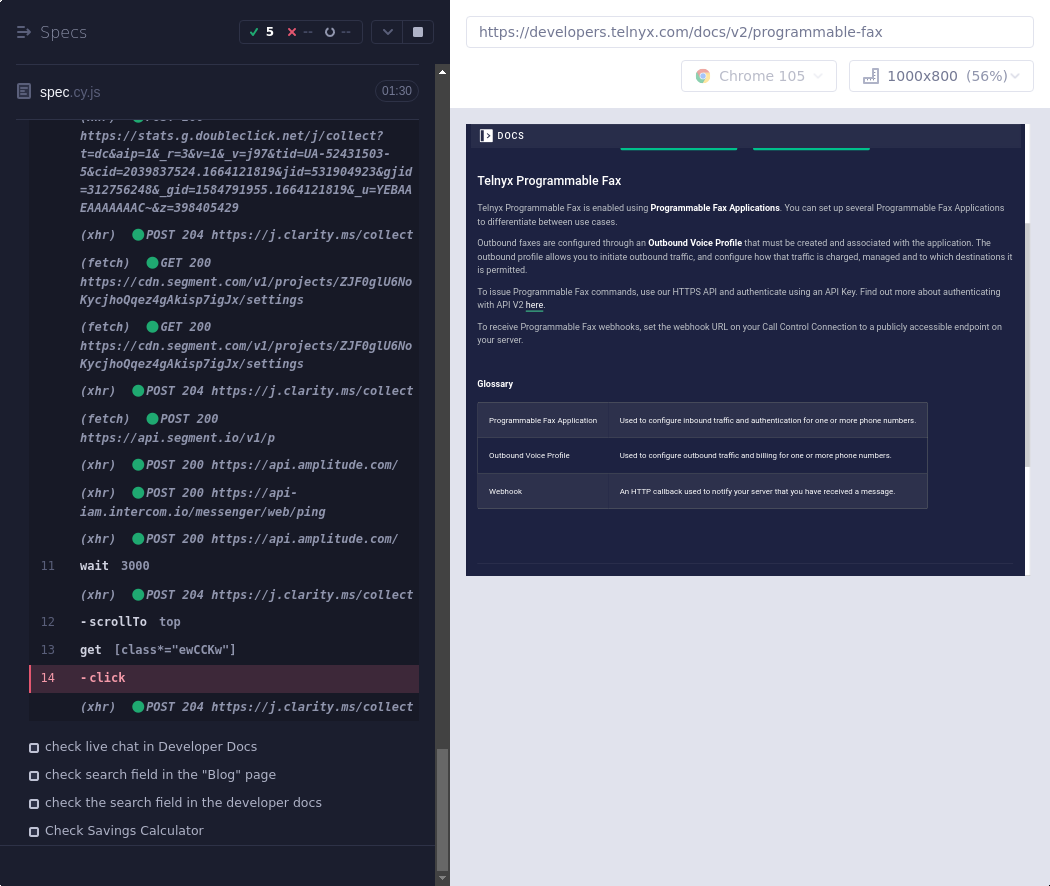
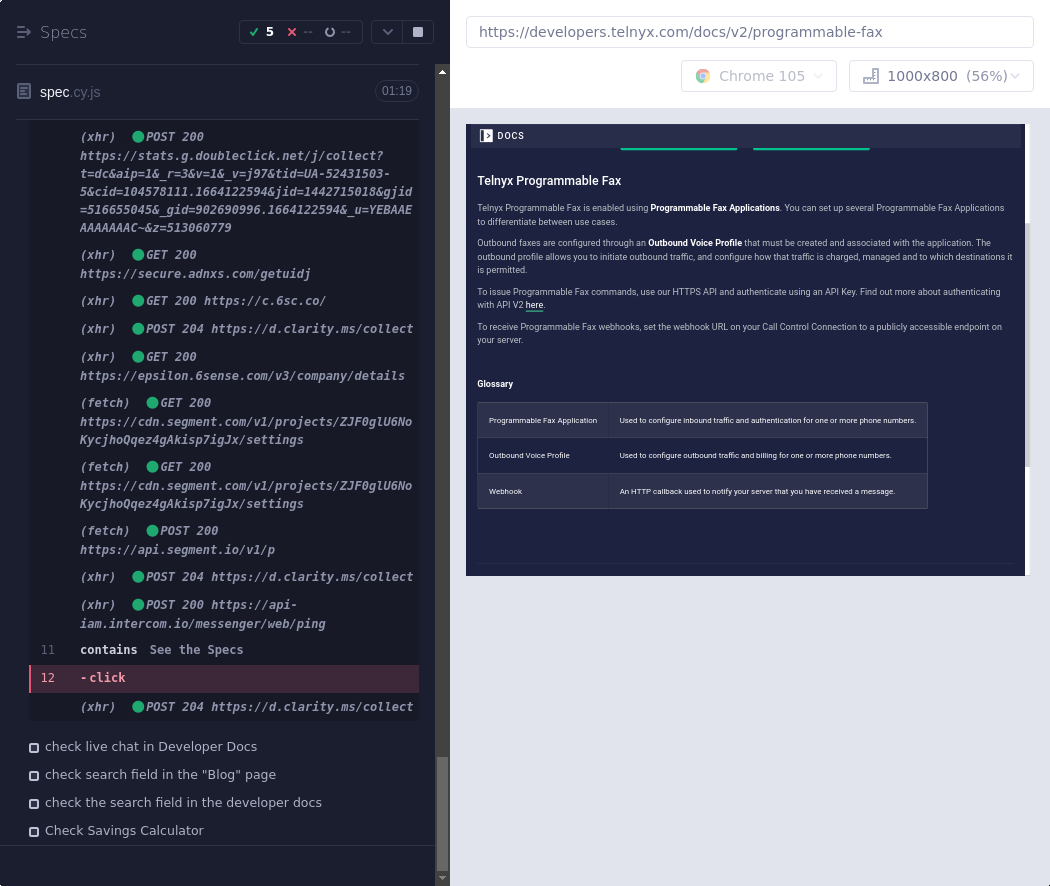
Deploying to gh-pages from @ DenysT07/cypress_autotest@daa4ff738ff83fbc0d0a4ad26e88a9672a4ba21f 🚀

Changed region(s): [[0.061, 0.1219, 0.3962, 0.7619]]

diff --git a/index.html b/index.html
@@ -1,2 +1,2 @@
 <!doctype html>
-<html lang="en"><head><meta charSet="utf-8"/><meta http-equiv="X-UA-Compatible" content="IE=edge"/><meta name="viewport" content="width=device-width, initial-scale=1"/><title>Mochawesome Report</title><link rel="stylesheet" href="assets/app.css"/></head><body data-raw="{&quot;stats&quot;:{&quot;suites&quot;:1,&quot;tests&quot;:10,&quot;passes&quot;:9,&quot;pending&quot;:0,&quot;failures&quot;:1,&quot;start&quot;:&quot;2022-09-25T16:02:19.736Z&quot;,&quot;end&quot;:&quot;2022-09-25T16:04:37.555Z&quot;,&quot;duration&quot;:114014,&quot;testsRegistered&quot;:10,&quot;passPercent&quot;:90,&quot;pendingPercent&quot;:0,&quot;other&quot;:0,&quot;hasOther&quot;:false,&quot;skipped&quot;:0,&quot;hasSkipped&quot;:false},&quot;results&quot;:[{&quot;uuid&quot;:&quot;aa57335e-7115-4b86-ab65-702dc884e9e3&quot;,&quot;title&quot;:&quot;&quot;,&quot;fullFile&quot;:&quot;cypress/e2e/spec/spec.cy.js&quot;,&quot;file&quot;:&quot;cypress/e2e/spec/spec.cy.js&quot;,&quot;beforeHooks&quot;:[],&quot;afterHooks&quot;:[],&quot;tests&quot;:[],&quot;suites&quot;:[{&quot;uuid&quot;:&quot;f3793e66-d598-4ea0-bd9f-08eda60064d5&quot;,&quot;title&quot;:&quot;registration forms tests&quot;,&quot;fullFile&quot;:&quot;cypress/e2e/spec/spec.cy.js&quot;,&quot;file&quot;:&quot;cypress/e2e/spec/spec.cy.js&quot;,&quot;beforeHooks&quot;:[],&quot;afterHooks&quot;:[],&quot;tests&quot;:[{&quot;title&quot;:&quot;Check registration page&quot;,&quot;fullTitle&quot;:&quot;registration forms tests Check registration page&quot;,&quot;timedOut&quot;:null,&quot;duration&quot;:26254,&quot;state&quot;:&quot;passed&quot;,&quot;speed&quot;:&quot;slow&quot;,&quot;pass&quot;:true,&quot;fail&quot;:false,&quot;pending&quot;:false,&quot;context&quot;:null,&quot;code&quot;:&quot;_mainPage.default.singUpClick();\n_registrationPage.default.fillNameField(randomstring);\n_registrationPage.default.fillEmailField(randomstring + &#x27;@gmail.com&#x27;);\n_registrationPage.default.fillpasswordfield(randomstringForPassword);\n_registrationPage.default.clickBothCheckBoxes();\n_registrationPage.default.clickCreataAccounyButt();\ncy.wait(10000);\n_registrationPage.default.clickCreataAccounyButt(); //to pass the recapcha need to press the button two times, work only in chrome\n\ncy.wait(10000);\n_registrationPage.default.sendEmailMessage.should(\&quot;have.text\&quot;, \&quot;reCAPTCHA validation required\&quot;);&quot;,&quot;err&quot;:{},&quot;uuid&quot;:&quot;c5da2faf-80e0-407e-8761-3e585ad706ad&quot;,&quot;parentUUID&quot;:&quot;f3793e66-d598-4ea0-bd9f-08eda60064d5&quot;,&quot;isHook&quot;:false,&quot;skipped&quot;:false},{&quot;title&quot;:&quot;Check the \&quot;Talk to an expert\&quot; page&quot;,&quot;fullTitle&quot;:&quot;registration forms tests Check the \&quot;Talk to an expert\&quot; page&quot;,&quot;timedOut&quot;:null,&quot;duration&quot;:7945,&quot;state&quot;:&quot;passed&quot;,&quot;speed&quot;:&quot;medium&quot;,&quot;pass&quot;:true,&quot;fail&quot;:false,&quot;pending&quot;:false,&quot;context&quot;:null,&quot;code&quot;:&quot;_mainPage.default.rightMenueClick();\n_mainPage.default.talkToAnExpertButt();\n_talkToAnExpertPage.default.reasonDroplistSelect(&#x27;Support&#x27;);\n_talkToAnExpertPage.default.firstNameFill(randomstring);\n_talkToAnExpertPage.default.lastNameFill(randomstring);\n_talkToAnExpertPage.default.buisnesEmailFill(randomstring + &#x27;@gmail.com&#x27;);\n_talkToAnExpertPage.default.phoneNumberFill(phoneNumber);\n_talkToAnExpertPage.default.companyWebSiteFill(&#x27;http://www.&#x27; + randomstring + &#x27;.com/&#x27;);\n_talkToAnExpertPage.default.additionalInformationFill(&#x27;It is just a test&#x27;);\n_talkToAnExpertPage.default.countryCodeSelect(&#x27;+380&#x27;);\n_talkToAnExpertPage.default.checkBoxClick();\n_talkToAnExpertPage.default.submitClick();\n_talkToAnExpertPage.default.messageAfterRegist.should(\&quot;have.text\&quot;, \&quot;Thanks for Reaching Out!\&quot;);&quot;,&quot;err&quot;:{},&quot;uuid&quot;:&quot;6ed02706-3341-42b3-aa25-58fe1e18f01f&quot;,&quot;parentUUID&quot;:&quot;f3793e66-d598-4ea0-bd9f-08eda60064d5&quot;,&quot;isHook&quot;:false,&quot;skipped&quot;:false},{&quot;title&quot;:&quot;check registration for beta testing on the integration page&quot;,&quot;fullTitle&quot;:&quot;registration forms tests check registration for beta testing on the integration page&quot;,&quot;timedOut&quot;:null,&quot;duration&quot;:8937,&quot;state&quot;:&quot;passed&quot;,&quot;speed&quot;:&quot;medium&quot;,&quot;pass&quot;:true,&quot;fail&quot;:false,&quot;pending&quot;:false,&quot;context&quot;:null,&quot;code&quot;:&quot;_mainPage.default.rightMenueClick();\n_mainPage.default.companyButtclick();\n_mainPage.default.integrationButtClick({\n  timeout: 2000\n});\ncy.wait(2000);\ncy.scrollTo(&#x27;bottom&#x27;);\n_integrationPage.default.firstNameFill(randomstring);\n_integrationPage.default.lastNameFill(randomstring);\n_integrationPage.default.buisnesEmailFill(randomstring + &#x27;@gmail.com&#x27;);\n_integrationPage.default.indastryFill(randomstring);\n_integrationPage.default.companyWebSiteFill(&#x27;http://www.&#x27; + randomstring + &#x27;.com/&#x27;);\n_integrationPage.default.useCaseDropListSelect(&#x27;Other&#x27;);\n_integrationPage.default.submitClick();\n_integrationPage.default.messageAfterRegist.should(\&quot;have.text\&quot;, \&quot;Thanks for your interest!\&quot;);&quot;,&quot;err&quot;:{},&quot;uuid&quot;:&quot;665bf479-aa1a-438c-82f2-3ae582bb3713&quot;,&quot;parentUUID&quot;:&quot;f3793e66-d598-4ea0-bd9f-08eda60064d5&quot;,&quot;isHook&quot;:false,&quot;skipped&quot;:false},{&quot;title&quot;:&quot;check registrations for becoming a Telnix Partner on the Partners page &quot;,&quot;fullTitle&quot;:&quot;registration forms tests check registrations for becoming a Telnix Partner on the Partners page &quot;,&quot;timedOut&quot;:null,&quot;duration&quot;:9117,&quot;state&quot;:&quot;passed&quot;,&quot;speed&quot;:&quot;medium&quot;,&quot;pass&quot;:true,&quot;fail&quot;:false,&quot;pending&quot;:false,&quot;context&quot;:null,&quot;code&quot;:&quot;_mainPage.default.rightMenueClick();\n_mainPage.default.companyButtclick();\n_mainPage.default.partnerButtClick();\ncy.wait(2000);\ncy.scrollTo(&#x27;bottom&#x27;);\n_partnerPage.default.firstNameFill(randomstring);\n_partnerPage.default.lastNameFill(randomstring);\n_partnerPage.default.buisnesEmailFill(randomstring + &#x27;@gmail.com&#x27;);\n_partnerPage.default.phoneFill(&#x27;380&#x27; + phoneNumber);\n_partnerPage.default.companyFill(randomstring);\n_partnerPage.default.TellAsFormFill(&#x27;It is just a test&#x27;);\n_partnerPage.default.partnerTypeDropListSelect(&#x27;MSP&#x27;);\n_partnerPage.default.checkBoxLocClick();\n_partnerPage.default.applyNowButtClick();\ncy.url({\n  timeout: 20000\n}).should(&#x27;contains&#x27;, &#x27;https://telnyx.com/company/partnerships?&#x27;); // there is a bug, i decided to check actual URL to pass this test&quot;,&quot;err&quot;:{},&quot;uuid&quot;:&quot;51e6eba3-4685-4a57-9e9b-ea7d6447771e&quot;,&quot;parentUUID&quot;:&quot;f3793e66-d598-4ea0-bd9f-08eda60064d5&quot;,&quot;isHook&quot;:false,&quot;skipped&quot;:false},{&quot;title&quot;:&quot;check registrations for the Waitlist on the storage page &quot;,&quot;fullTitle&quot;:&quot;registration forms tests check registrations for the Waitlist on the storage page &quot;,&quot;timedOut&quot;:null,&quot;duration&quot;:8488,&quot;state&quot;:&quot;passed&quot;,&quot;speed&quot;:&quot;medium&quot;,&quot;pass&quot;:true,&quot;fail&quot;:false,&quot;pending&quot;:false,&quot;context&quot;:null,&quot;code&quot;:&quot;_mainPage.default.rightMenueClick();\n_mainPage.default.productsButtcClick();\n_mainPage.default.storageButtClock();\ncy.wait(3000);\ncy.scrollTo(&#x27;bottom&#x27;);\n_storagePage.default.firstNameFill(randomstring);\n_storagePage.default.lastNameFill(randomstring);\n_storagePage.default.buisnesEmailFill(randomstring + &#x27;@gmail.com&#x27;);\n_storagePage.default.TellAsFormFill(&#x27;It is just a test&#x27;);\n_storagePage.default.checkBoxClick();\n_storagePage.default.applyNowButtClick();\n_storagePage.default.messageAfterRegist.should(\&quot;have.text\&quot;, \&quot;You&#x27;re on the waitlist!\&quot;);&quot;,&quot;err&quot;:{},&quot;uuid&quot;:&quot;12505892-3f5d-49cf-8290-c1c45b8d27ae&quot;,&quot;parentUUID&quot;:&quot;f3793e66-d598-4ea0-bd9f-08eda60064d5&quot;,&quot;isHook&quot;:false,&quot;skipped&quot;:false}],&quot;suites&quot;:[],&quot;passes&quot;:[&quot;c5da2faf-80e0-407e-8761-3e585ad706ad&quot;,&quot;6ed02706-3341-42b3-aa25-58fe1e18f01f&quot;,&quot;665bf479-aa1a-438c-82f2-3ae582bb3713&quot;,&quot;51e6eba3-4685-4a57-9e9b-ea7d6447771e&quot;,&quot;12505892-3f5d-49cf-8290-c1c45b8d27ae&quot;],&quot;failures&quot;:[],&quot;pending&quot;:[],&quot;skipped&quot;:[],&quot;duration&quot;:60741,&quot;root&quot;:false,&quot;rootEmpty&quot;:false,&quot;_timeout&quot;:2000},{&quot;uuid&quot;:&quot;6a49a9a2-1723-4b50-bd7c-6c3b56f30742&quot;,&quot;title&quot;:&quot;Functional tests&quot;,&quot;fullFile&quot;:&quot;cypress/e2e/spec/spec.cy.js&quot;,&quot;file&quot;:&quot;cypress/e2e/spec/spec.cy.js&quot;,&quot;beforeHooks&quot;:[],&quot;afterHooks&quot;:[],&quot;tests&quot;:[{&quot;title&quot;:&quot;check link to the Postman colection&quot;,&quot;fullTitle&quot;:&quot;Functional tests check link to the Postman colection&quot;,&quot;timedOut&quot;:null,&quot;duration&quot;:17815,&quot;state&quot;:&quot;failed&quot;,&quot;speed&quot;:null,&quot;pass&quot;:false,&quot;fail&quot;:true,&quot;pending&quot;:false,&quot;context&quot;:&quot;[{\&quot;title\&quot;:\&quot;Failed screenshot\&quot;,\&quot;value\&quot;:\&quot;screenshots/spec.cy.js/Functional tests -- check link to the Postman colection (failed).png\&quot;}]&quot;,&quot;code&quot;:&quot;_mainPage.default.rightMenueClick();\n_mainPage.default.productsButtcClick();\n_mainPage.default.seeAllProductsButtClick();\n_faxApiPage.default.faxApiButtClick();\n_faxApiPage.default.exploreTheDocButtClick();\ncy.wait(3000);\ncy.scrollTo(&#x27;top&#x27;);\n_faxApiPage.default.seeTheSpecButtclick();\ncy.wait(3000);\n_faxApiPage.default.runInPostmanButtClick();\ncy.url({\n  timeout: 20000\n}).should(&#x27;contains&#x27;, &#x27;postman.com&#x27;);&quot;,&quot;err&quot;:{&quot;message&quot;:&quot;CypressError: Timed out retrying after 4050ms: `cy.click()` failed because this element:\n\n`&lt;a color=\&quot;primary\&quot; class=\&quot;sc-45040057-0 ewCCKw sc-992a1474-0 fkNdTQ mchNoDecorate\&quot; href=\&quot;/docs/api/v2/programmable-fax\&quot;&gt;See the...&lt;/a&gt;`\n\nis being covered by another element:\n\n`&lt;label for=\&quot;telnyx-mobile-sidebar\&quot; class=\&quot;sc-249d42c8-0 erLUQr\&quot;&gt;...&lt;/label&gt;`\n\nFix this problem, or use {force: true} to disable error checking.\n\nhttps://on.cypress.io/element-cannot-be-interacted-with&quot;,&quot;estack&quot;:&quot;CypressError: Timed out retrying after 4050ms: `cy.click()` failed because this element:\n\n`&lt;a color=\&quot;primary\&quot; class=\&quot;sc-45040057-0 ewCCKw sc-992a1474-0 fkNdTQ mchNoDecorate\&quot; href=\&quot;/docs/api/v2/programmable-fax\&quot;&gt;See the...&lt;/a&gt;`\n\nis being covered by another element:\n\n`&lt;label for=\&quot;telnyx-mobile-sidebar\&quot; class=\&quot;sc-249d42c8-0 erLUQr\&quot;&gt;...&lt;/label&gt;`\n\nFix this problem, or use {force: true} to disable error checking.\n\nhttps://on.cypress.io/element-cannot-be-interacted-with\n    at $Cy.ensureDescendents (https://telnyx.com/__cypress/runner/cypress_runner.js:147512:78)\n    at ensureDescendents (https://telnyx.com/__cypress/runner/cypress_runner.js:132962:8)\n    at ensureDescendentsAndScroll (https://telnyx.com/__cypress/runner/cypress_runner.js:132969:14)\n    at ensureElIsNotCovered (https://telnyx.com/__cypress/runner/cypress_runner.js:133101:5)\n    at runAllChecks (https://telnyx.com/__cypress/runner/cypress_runner.js:133291:52)\n    at retryActionability (https://telnyx.com/__cypress/runner/cypress_runner.js:133315:16)\n    at tryCatcher (https://telnyx.com/__cypress/runner/cypress_runner.js:11318:23)\n    at Promise.attempt.Promise.try (https://telnyx.com/__cypress/runner/cypress_runner.js:8592:29)\n    at whenStable (https://telnyx.com/__cypress/runner/cypress_runner.js:152495:65)\n    at &lt;unknown&gt; (https://telnyx.com/__cypress/runner/cypress_runner.js:151949:14)\n    at tryCatcher (https://telnyx.com/__cypress/runner/cypress_runner.js:11318:23)\n    at Promise._settlePromiseFromHandler (https://telnyx.com/__cypress/runner/cypress_runner.js:9253:31)\n    at Promise._settlePromise (https://telnyx.com/__cypress/runner/cypress_runner.js:9310:18)\n    at Promise._settlePromise0 (https://telnyx.com/__cypress/runner/cypress_runner.js:9355:10)\n    at Promise._settlePromises (https://telnyx.com/__cypress/runner/cypress_runner.js:9435:18)\n    at Promise._fulfill (https://telnyx.com/__cypress/runner/cypress_runner.js:9379:18)\n    at &lt;unknown&gt; (https://telnyx.com/__cypress/runner/cypress_runner.js:10993:46)\nFrom Your Spec Code:\n    at faxApiPage.seeTheSpecButtclick (webpack:///./cypress/e2e/pages/faxApiPage.js:14:34)\n    at Context.eval (webpack:///./cypress/e2e/spec/spec.cy.js:123:15)&quot;,&quot;diff&quot;:null},&quot;uuid&quot;:&quot;bb46fd47-f855-405e-ba0f-157cacc52195&quot;,&quot;parentUUID&quot;:&quot;6a49a9a2-1723-4b50-bd7c-6c3b56f30742&quot;,&quot;isHook&quot;:false,&quot;skipped&quot;:false},{&quot;title&quot;:&quot;check live chat in Developer Docs&quot;,&quot;fullTitle&quot;:&quot;Functional tests check live chat in Developer Docs&quot;,&quot;timedOut&quot;:null,&quot;duration&quot;:16987,&quot;state&quot;:&quot;passed&quot;,&quot;speed&quot;:&quot;slow&quot;,&quot;pass&quot;:true,&quot;fail&quot;:false,&quot;pending&quot;:false,&quot;context&quot;:null,&quot;code&quot;:&quot;_mainPage.default.rightMenueClick();\n_mainPage.default.resourcesButtclick();\n_mainPage.default.devDocsButtclick();\ncy.scrollTo(&#x27;bottom&#x27;);\ncy.wait(6000);\n_devDocsPage.default.liveChatButtclick();\ncy.wait(5000);\n_devDocsPage.default.serchFieldLiveChatButtClick();\n_devDocsPage.default.serchFieldLiveChatFill(&#x27;sms&#x27;);\ncy.wait(1000);\n_devDocsPage.default.findEntryAndClick(&#x27;Sending Alphanumeric&#x27;);\n_devDocsPage.default.entryTitle.should(\&quot;have.text\&quot;, \&quot;Sending Alphanumeric SMS\&quot;);&quot;,&quot;err&quot;:{},&quot;uuid&quot;:&quot;e4633505-3cd5-4244-b42c-32b8a8878555&quot;,&quot;parentUUID&quot;:&quot;6a49a9a2-1723-4b50-bd7c-6c3b56f30742&quot;,&quot;isHook&quot;:false,&quot;skipped&quot;:false},{&quot;title&quot;:&quot;check search field in the \&quot;Blog\&quot; page&quot;,&quot;fullTitle&quot;:&quot;Functional tests check search field in the \&quot;Blog\&quot; page&quot;,&quot;timedOut&quot;:null,&quot;duration&quot;:9186,&quot;state&quot;:&quot;passed&quot;,&quot;speed&quot;:&quot;medium&quot;,&quot;pass&quot;:true,&quot;fail&quot;:false,&quot;pending&quot;:false,&quot;context&quot;:null,&quot;code&quot;:&quot;_mainPage.default.rightMenueClick();\n_mainPage.default.resourcesButtclick();\n_mainPage.default.blogeButtClick();\n_blogPage.default.serchFieldFill(&#x27;Programmable fax{enter}&#x27;);\ncy.wait(6000);\ncy.contains(&#x27;Programmable fax - switch from Twilio to Telnyx&#x27;).click();\n_blogPage.default.entruTitle.should(&#x27;have.text&#x27;, &#x27;Programmable fax - switch from Twilio to Telnyx &#x27;);&quot;,&quot;err&quot;:{},&quot;uuid&quot;:&quot;77f51d10-c4b3-4b3a-ad7b-72b9ea6edcf4&quot;,&quot;parentUUID&quot;:&quot;6a49a9a2-1723-4b50-bd7c-6c3b56f30742&quot;,&quot;isHook&quot;:false,&quot;skipped&quot;:false},{&quot;title&quot;:&quot;check the search field in the developer docs&quot;,&quot;fullTitle&quot;:&quot;Functional tests check the search field in the developer docs&quot;,&quot;timedOut&quot;:null,&quot;duration&quot;:4061,&quot;state&quot;:&quot;passed&quot;,&quot;speed&quot;:&quot;fast&quot;,&quot;pass&quot;:true,&quot;fail&quot;:false,&quot;pending&quot;:false,&quot;context&quot;:null,&quot;code&quot;:&quot;_mainPage.default.rightMenueClick();\n_mainPage.default.resourcesButtclick();\n_mainPage.default.devDocsButtclick();\n_devDocsPage.default.lefMenuClick();\n_devDocsPage.default.serchFieldLeftMenuFill(&#x27;api&#x27;);\ncy.contains(&#x27; Services in Europe&#x27;).click({\n  force: true\n});\n_devDocsPage.default.mainEntryTitle.should(&#x27;have.text&#x27;, &#x27;Voice API Services in Europe&#x27;);&quot;,&quot;err&quot;:{},&quot;uuid&quot;:&quot;94314853-e68b-4695-963a-3a1aed6d5a99&quot;,&quot;parentUUID&quot;:&quot;6a49a9a2-1723-4b50-bd7c-6c3b56f30742&quot;,&quot;isHook&quot;:false,&quot;skipped&quot;:false},{&quot;title&quot;:&quot;Check Savings Calculator&quot;,&quot;fullTitle&quot;:&quot;Functional tests Check Savings Calculator&quot;,&quot;timedOut&quot;:null,&quot;duration&quot;:5224,&quot;state&quot;:&quot;passed&quot;,&quot;speed&quot;:&quot;medium&quot;,&quot;pass&quot;:true,&quot;fail&quot;:false,&quot;pending&quot;:false,&quot;context&quot;:null,&quot;code&quot;:&quot;_mainPage.default.rightMenueClick();\n_mainPage.default.resourcesButtclick();\n_mainPage.default.CalculatorButtClick();\ncy.wait(2000);\n_calculatorPage.default.messagingApiButtClick();\n_calculatorPage.default.voiceApiButtClick();\n_calculatorPage.default.continueButtClick();\n_calculatorPage.default.localNumberFieldFill(&#x27;{selectall}321&#x27;);\n_calculatorPage.default.tollFreeNumberFieldClick(&#x27;{selectall}123&#x27;);\n_calculatorPage.default.continueButtClick();\n_calculatorPage.default.totalSavingResult.should(&#x27;have.text&#x27;, &#x27;$12,940/ year&#x27;);&quot;,&quot;err&quot;:{},&quot;uuid&quot;:&quot;ee8beebd-192d-4a6c-ab0e-3ce4c3f96a78&quot;,&quot;parentUUID&quot;:&quot;6a49a9a2-1723-4b50-bd7c-6c3b56f30742&quot;,&quot;isHook&quot;:false,&quot;skipped&quot;:false}],&quot;suites&quot;:[],&quot;passes&quot;:[&quot;e4633505-3cd5-4244-b42c-32b8a8878555&quot;,&quot;77f51d10-c4b3-4b3a-ad7b-72b9ea6edcf4&quot;,&quot;94314853-e68b-4695-963a-3a1aed6d5a99&quot;,&quot;ee8beebd-192d-4a6c-ab0e-3ce4c3f96a78&quot;],&quot;failures&quot;:[&quot;bb46fd47-f855-405e-ba0f-157cacc52195&quot;],&quot;pending&quot;:[],&quot;skipped&quot;:[],&quot;duration&quot;:53273,&quot;root&quot;:false,&quot;rootEmpty&quot;:false,&quot;_timeout&quot;:2000}],&quot;passes&quot;:[],&quot;failures&quot;:[],&quot;pending&quot;:[],&quot;skipped&quot;:[],&quot;duration&quot;:0,&quot;root&quot;:true,&quot;rootEmpty&quot;:true,&quot;_timeout&quot;:2000}],&quot;meta&quot;:{&quot;mocha&quot;:{&quot;version&quot;:&quot;7.0.1&quot;},&quot;mochawesome&quot;:{&quot;options&quot;:{&quot;quiet&quot;:false,&quot;reportFilename&quot;:&quot;mochawesome&quot;,&quot;saveHtml&quot;:false,&quot;saveJson&quot;:true,&quot;consoleReporter&quot;:&quot;spec&quot;,&quot;useInlineDiffs&quot;:false,&quot;code&quot;:true},&quot;version&quot;:&quot;7.1.3&quot;},&quot;marge&quot;:{&quot;options&quot;:{&quot;overwrite&quot;:false,&quot;html&quot;:false,&quot;json&quot;:true,&quot;reportDir&quot;:&quot;cypress/reports/html/.jsons&quot;},&quot;version&quot;:&quot;6.2.0&quot;}}}" data-config="{&quot;reportFilename&quot;:&quot;index.html&quot;,&quot;reportDir&quot;:&quot;/home/runner/work/cypress_autotest/cypress_autotest/cypress/reports/html&quot;,&quot;reportTitle&quot;:&quot;cypress_autotest&quot;,&quot;reportPageTitle&quot;:&quot;Mochawesome Report&quot;,&quot;inline&quot;:false,&quot;inlineAssets&quot;:false,&quot;cdn&quot;:false,&quot;charts&quot;:false,&quot;enableCharts&quot;:false,&quot;code&quot;:true,&quot;enableCode&quot;:true,&quot;autoOpen&quot;:false,&quot;overwrite&quot;:true,&quot;timestamp&quot;:false,&quot;ts&quot;:false,&quot;showPassed&quot;:true,&quot;showFailed&quot;:true,&quot;showPending&quot;:true,&quot;showSkipped&quot;:false,&quot;showHooks&quot;:&quot;failed&quot;,&quot;saveJson&quot;:false,&quot;saveHtml&quot;:true,&quot;dev&quot;:false,&quot;assetsDir&quot;:&quot;/home/runner/work/cypress_autotest/cypress_autotest/cypress/reports/html/assets&quot;,&quot;htmlFile&quot;:&quot;/home/runner/work/cypress_autotest/cypress_autotest/cypress/reports/html/index.html&quot;}"><div id="report"></div><script src="assets/app.js"></script></body></html>
+<html lang="en"><head><meta charSet="utf-8"/><meta http-equiv="X-UA-Compatible" content="IE=edge"/><meta name="viewport" content="width=device-width, initial-scale=1"/><title>Mochawesome Report</title><link rel="stylesheet" href="assets/app.css"/></head><body data-raw="{&quot;stats&quot;:{&quot;suites&quot;:1,&quot;tests&quot;:10,&quot;passes&quot;:9,&quot;pending&quot;:0,&quot;failures&quot;:1,&quot;start&quot;:&quot;2022-09-25T16:15:21.773Z&quot;,&quot;end&quot;:&quot;2022-09-25T16:17:22.435Z&quot;,&quot;duration&quot;:101216,&quot;testsRegistered&quot;:10,&quot;passPercent&quot;:90,&quot;pendingPercent&quot;:0,&quot;other&quot;:0,&quot;hasOther&quot;:false,&quot;skipped&quot;:0,&quot;hasSkipped&quot;:false},&quot;results&quot;:[{&quot;uuid&quot;:&quot;cb2b54ff-c100-4602-ad3f-a338654b0f2f&quot;,&quot;title&quot;:&quot;&quot;,&quot;fullFile&quot;:&quot;cypress/e2e/spec/spec.cy.js&quot;,&quot;file&quot;:&quot;cypress/e2e/spec/spec.cy.js&quot;,&quot;beforeHooks&quot;:[],&quot;afterHooks&quot;:[],&quot;tests&quot;:[],&quot;suites&quot;:[{&quot;uuid&quot;:&quot;aebd895c-c76b-4d4d-a3d4-ca886b71327f&quot;,&quot;title&quot;:&quot;registration forms tests&quot;,&quot;fullFile&quot;:&quot;cypress/e2e/spec/spec.cy.js&quot;,&quot;file&quot;:&quot;cypress/e2e/spec/spec.cy.js&quot;,&quot;beforeHooks&quot;:[],&quot;afterHooks&quot;:[],&quot;tests&quot;:[{&quot;title&quot;:&quot;Check registration page&quot;,&quot;fullTitle&quot;:&quot;registration forms tests Check registration page&quot;,&quot;timedOut&quot;:null,&quot;duration&quot;:25544,&quot;state&quot;:&quot;passed&quot;,&quot;speed&quot;:&quot;slow&quot;,&quot;pass&quot;:true,&quot;fail&quot;:false,&quot;pending&quot;:false,&quot;context&quot;:null,&quot;code&quot;:&quot;_mainPage.default.singUpClick();\n_registrationPage.default.fillNameField(randomstring);\n_registrationPage.default.fillEmailField(randomstring + &#x27;@gmail.com&#x27;);\n_registrationPage.default.fillpasswordfield(randomstringForPassword);\n_registrationPage.default.clickBothCheckBoxes();\n_registrationPage.default.clickCreataAccounyButt();\ncy.wait(10000);\n_registrationPage.default.clickCreataAccounyButt(); //to pass the recapcha need to press the button two times, work only in chrome\n\ncy.wait(10000);\n_registrationPage.default.sendEmailMessage.should(\&quot;have.text\&quot;, \&quot;reCAPTCHA validation required\&quot;);&quot;,&quot;err&quot;:{},&quot;uuid&quot;:&quot;1fa5d4c2-a0ad-4ba1-b900-a4c4d869ef0a&quot;,&quot;parentUUID&quot;:&quot;aebd895c-c76b-4d4d-a3d4-ca886b71327f&quot;,&quot;isHook&quot;:false,&quot;skipped&quot;:false},{&quot;title&quot;:&quot;Check the \&quot;Talk to an expert\&quot; page&quot;,&quot;fullTitle&quot;:&quot;registration forms tests Check the \&quot;Talk to an expert\&quot; page&quot;,&quot;timedOut&quot;:null,&quot;duration&quot;:6416,&quot;state&quot;:&quot;passed&quot;,&quot;speed&quot;:&quot;medium&quot;,&quot;pass&quot;:true,&quot;fail&quot;:false,&quot;pending&quot;:false,&quot;context&quot;:null,&quot;code&quot;:&quot;_mainPage.default.rightMenueClick();\n_mainPage.default.talkToAnExpertButt();\n_talkToAnExpertPage.default.reasonDroplistSelect(&#x27;Support&#x27;);\n_talkToAnExpertPage.default.firstNameFill(randomstring);\n_talkToAnExpertPage.default.lastNameFill(randomstring);\n_talkToAnExpertPage.default.buisnesEmailFill(randomstring + &#x27;@gmail.com&#x27;);\n_talkToAnExpertPage.default.phoneNumberFill(phoneNumber);\n_talkToAnExpertPage.default.companyWebSiteFill(&#x27;http://www.&#x27; + randomstring + &#x27;.com/&#x27;);\n_talkToAnExpertPage.default.additionalInformationFill(&#x27;It is just a test&#x27;);\n_talkToAnExpertPage.default.countryCodeSelect(&#x27;+380&#x27;);\n_talkToAnExpertPage.default.checkBoxClick();\n_talkToAnExpertPage.default.submitClick();\n_talkToAnExpertPage.default.messageAfterRegist.should(\&quot;have.text\&quot;, \&quot;Thanks for Reaching Out!\&quot;);&quot;,&quot;err&quot;:{},&quot;uuid&quot;:&quot;c1c32e92-979e-4799-8b9f-8678cbb5d030&quot;,&quot;parentUUID&quot;:&quot;aebd895c-c76b-4d4d-a3d4-ca886b71327f&quot;,&quot;isHook&quot;:false,&quot;skipped&quot;:false},{&quot;title&quot;:&quot;check registration for beta testing on the integration page&quot;,&quot;fullTitle&quot;:&quot;registration forms tests check registration for beta testing on the integration page&quot;,&quot;timedOut&quot;:null,&quot;duration&quot;:9960,&quot;state&quot;:&quot;passed&quot;,&quot;speed&quot;:&quot;medium&quot;,&quot;pass&quot;:true,&quot;fail&quot;:false,&quot;pending&quot;:false,&quot;context&quot;:null,&quot;code&quot;:&quot;_mainPage.default.rightMenueClick();\n_mainPage.default.companyButtclick();\n_mainPage.default.integrationButtClick({\n  timeout: 2000\n});\ncy.wait(2000);\ncy.scrollTo(&#x27;bottom&#x27;);\n_integrationPage.default.firstNameFill(randomstring);\n_integrationPage.default.lastNameFill(randomstring);\n_integrationPage.default.buisnesEmailFill(randomstring + &#x27;@gmail.com&#x27;);\n_integrationPage.default.indastryFill(randomstring);\n_integrationPage.default.companyWebSiteFill(&#x27;http://www.&#x27; + randomstring + &#x27;.com/&#x27;);\n_integrationPage.default.useCaseDropListSelect(&#x27;Other&#x27;);\n_integrationPage.default.submitClick();\n_integrationPage.default.messageAfterRegist.should(\&quot;have.text\&quot;, \&quot;Thanks for your interest!\&quot;);&quot;,&quot;err&quot;:{},&quot;uuid&quot;:&quot;c051984f-96ce-4849-9562-8e67229e4b01&quot;,&quot;parentUUID&quot;:&quot;aebd895c-c76b-4d4d-a3d4-ca886b71327f&quot;,&quot;isHook&quot;:false,&quot;skipped&quot;:false},{&quot;title&quot;:&quot;check registrations for becoming a Telnix Partner on the Partners page &quot;,&quot;fullTitle&quot;:&quot;registration forms tests check registrations for becoming a Telnix Partner on the Partners page &quot;,&quot;timedOut&quot;:null,&quot;duration&quot;:7323,&quot;state&quot;:&quot;passed&quot;,&quot;speed&quot;:&quot;medium&quot;,&quot;pass&quot;:true,&quot;fail&quot;:false,&quot;pending&quot;:false,&quot;context&quot;:null,&quot;code&quot;:&quot;_mainPage.default.rightMenueClick();\n_mainPage.default.companyButtclick();\n_mainPage.default.partnerButtClick();\ncy.wait(2000);\ncy.scrollTo(&#x27;bottom&#x27;);\n_partnerPage.default.firstNameFill(randomstring);\n_partnerPage.default.lastNameFill(randomstring);\n_partnerPage.default.buisnesEmailFill(randomstring + &#x27;@gmail.com&#x27;);\n_partnerPage.default.phoneFill(&#x27;380&#x27; + phoneNumber);\n_partnerPage.default.companyFill(randomstring);\n_partnerPage.default.TellAsFormFill(&#x27;It is just a test&#x27;);\n_partnerPage.default.partnerTypeDropListSelect(&#x27;MSP&#x27;);\n_partnerPage.default.checkBoxLocClick();\n_partnerPage.default.applyNowButtClick();\ncy.url({\n  timeout: 20000\n}).should(&#x27;contains&#x27;, &#x27;https://telnyx.com/company/partnerships?&#x27;); // there is a bug, i decided to check actual URL to pass this test&quot;,&quot;err&quot;:{},&quot;uuid&quot;:&quot;57b941c4-8b90-4712-ab3b-76b0a9b86577&quot;,&quot;parentUUID&quot;:&quot;aebd895c-c76b-4d4d-a3d4-ca886b71327f&quot;,&quot;isHook&quot;:false,&quot;skipped&quot;:false},{&quot;title&quot;:&quot;check registrations for the Waitlist on the storage page &quot;,&quot;fullTitle&quot;:&quot;registration forms tests check registrations for the Waitlist on the storage page &quot;,&quot;timedOut&quot;:null,&quot;duration&quot;:7137,&quot;state&quot;:&quot;passed&quot;,&quot;speed&quot;:&quot;medium&quot;,&quot;pass&quot;:true,&quot;fail&quot;:false,&quot;pending&quot;:false,&quot;context&quot;:null,&quot;code&quot;:&quot;_mainPage.default.rightMenueClick();\n_mainPage.default.productsButtcClick();\n_mainPage.default.storageButtClock();\ncy.wait(3000);\ncy.scrollTo(&#x27;bottom&#x27;);\n_storagePage.default.firstNameFill(randomstring);\n_storagePage.default.lastNameFill(randomstring);\n_storagePage.default.buisnesEmailFill(randomstring + &#x27;@gmail.com&#x27;);\n_storagePage.default.TellAsFormFill(&#x27;It is just a test&#x27;);\n_storagePage.default.checkBoxClick();\n_storagePage.default.applyNowButtClick();\n_storagePage.default.messageAfterRegist.should(\&quot;have.text\&quot;, \&quot;You&#x27;re on the waitlist!\&quot;);&quot;,&quot;err&quot;:{},&quot;uuid&quot;:&quot;adeab519-1327-4739-95cf-b6fbf4ab3408&quot;,&quot;parentUUID&quot;:&quot;aebd895c-c76b-4d4d-a3d4-ca886b71327f&quot;,&quot;isHook&quot;:false,&quot;skipped&quot;:false}],&quot;suites&quot;:[],&quot;passes&quot;:[&quot;1fa5d4c2-a0ad-4ba1-b900-a4c4d869ef0a&quot;,&quot;c1c32e92-979e-4799-8b9f-8678cbb5d030&quot;,&quot;c051984f-96ce-4849-9562-8e67229e4b01&quot;,&quot;57b941c4-8b90-4712-ab3b-76b0a9b86577&quot;,&quot;adeab519-1327-4739-95cf-b6fbf4ab3408&quot;],&quot;failures&quot;:[],&quot;pending&quot;:[],&quot;skipped&quot;:[],&quot;duration&quot;:56380,&quot;root&quot;:false,&quot;rootEmpty&quot;:false,&quot;_timeout&quot;:2000},{&quot;uuid&quot;:&quot;2e5b74e2-49e8-46ca-8dcd-a2303e1e4950&quot;,&quot;title&quot;:&quot;Functional tests&quot;,&quot;fullFile&quot;:&quot;cypress/e2e/spec/spec.cy.js&quot;,&quot;file&quot;:&quot;cypress/e2e/spec/spec.cy.js&quot;,&quot;beforeHooks&quot;:[],&quot;afterHooks&quot;:[],&quot;tests&quot;:[{&quot;title&quot;:&quot;check link to the Postman colection&quot;,&quot;fullTitle&quot;:&quot;Functional tests check link to the Postman colection&quot;,&quot;timedOut&quot;:null,&quot;duration&quot;:12054,&quot;state&quot;:&quot;failed&quot;,&quot;speed&quot;:null,&quot;pass&quot;:false,&quot;fail&quot;:true,&quot;pending&quot;:false,&quot;context&quot;:&quot;[{\&quot;title\&quot;:\&quot;Failed screenshot\&quot;,\&quot;value\&quot;:\&quot;screenshots/spec.cy.js/Functional tests -- check link to the Postman colection (failed).png\&quot;}]&quot;,&quot;code&quot;:&quot;_mainPage.default.rightMenueClick();\n_mainPage.default.productsButtcClick();\n_mainPage.default.seeAllProductsButtClick();\n_faxApiPage.default.faxApiButtClick();\n_faxApiPage.default.exploreTheDocButtClick();\ncy.contains(&#x27;See the Specs&#x27;).click(); // cy.wait(3000)\n// cy.scrollTo(&#x27;top&#x27;)\n// faxApiPage.seeTheSpecButtclick()\n// cy.wait(3000)\n_faxApiPage.default.runInPostmanButtClick();\ncy.url({\n  timeout: 20000\n}).should(&#x27;contains&#x27;, &#x27;postman.com&#x27;);&quot;,&quot;err&quot;:{&quot;message&quot;:&quot;CypressError: Timed out retrying after 4050ms: `cy.click()` failed because this element:\n\n`&lt;a color=\&quot;primary\&quot; class=\&quot;sc-45040057-0 ewCCKw sc-992a1474-0 fkNdTQ mchNoDecorate\&quot; href=\&quot;/docs/api/v2/programmable-fax\&quot;&gt;See the...&lt;/a&gt;`\n\nis being covered by another element:\n\n`&lt;label for=\&quot;telnyx-mobile-sidebar\&quot; class=\&quot;sc-249d42c8-0 erLUQr\&quot;&gt;...&lt;/label&gt;`\n\nFix this problem, or use {force: true} to disable error checking.\n\nhttps://on.cypress.io/element-cannot-be-interacted-with&quot;,&quot;estack&quot;:&quot;CypressError: Timed out retrying after 4050ms: `cy.click()` failed because this element:\n\n`&lt;a color=\&quot;primary\&quot; class=\&quot;sc-45040057-0 ewCCKw sc-992a1474-0 fkNdTQ mchNoDecorate\&quot; href=\&quot;/docs/api/v2/programmable-fax\&quot;&gt;See the...&lt;/a&gt;`\n\nis being covered by another element:\n\n`&lt;label for=\&quot;telnyx-mobile-sidebar\&quot; class=\&quot;sc-249d42c8-0 erLUQr\&quot;&gt;...&lt;/label&gt;`\n\nFix this problem, or use {force: true} to disable error checking.\n\nhttps://on.cypress.io/element-cannot-be-interacted-with\n    at $Cy.ensureDescendents (https://telnyx.com/__cypress/runner/cypress_runner.js:147512:78)\n    at ensureDescendents (https://telnyx.com/__cypress/runner/cypress_runner.js:132962:8)\n    at ensureDescendentsAndScroll (https://telnyx.com/__cypress/runner/cypress_runner.js:132969:14)\n    at ensureElIsNotCovered (https://telnyx.com/__cypress/runner/cypress_runner.js:133101:5)\n    at runAllChecks (https://telnyx.com/__cypress/runner/cypress_runner.js:133291:52)\n    at retryActionability (https://telnyx.com/__cypress/runner/cypress_runner.js:133315:16)\n    at tryCatcher (https://telnyx.com/__cypress/runner/cypress_runner.js:11318:23)\n    at Promise.attempt.Promise.try (https://telnyx.com/__cypress/runner/cypress_runner.js:8592:29)\n    at whenStable (https://telnyx.com/__cypress/runner/cypress_runner.js:152495:65)\n    at &lt;unknown&gt; (https://telnyx.com/__cypress/runner/cypress_runner.js:151949:14)\n    at tryCatcher (https://telnyx.com/__cypress/runner/cypress_runner.js:11318:23)\n    at Promise._settlePromiseFromHandler (https://telnyx.com/__cypress/runner/cypress_runner.js:9253:31)\n    at Promise._settlePromise (https://telnyx.com/__cypress/runner/cypress_runner.js:9310:18)\n    at Promise._settlePromise0 (https://telnyx.com/__cypress/runner/cypress_runner.js:9355:10)\n    at Promise._settlePromises (https://telnyx.com/__cypress/runner/cypress_runner.js:9435:18)\n    at Promise._fulfill (https://telnyx.com/__cypress/runner/cypress_runner.js:9379:18)\n    at &lt;unknown&gt; (https://telnyx.com/__cypress/runner/cypress_runner.js:10993:46)\nFrom Your Spec Code:\n    at Context.eval (webpack:///./cypress/e2e/spec/spec.cy.js:121:33)&quot;,&quot;diff&quot;:null},&quot;uuid&quot;:&quot;7b7e11a0-0a3d-4e40-816f-fd094e6e5026&quot;,&quot;parentUUID&quot;:&quot;2e5b74e2-49e8-46ca-8dcd-a2303e1e4950&quot;,&quot;isHook&quot;:false,&quot;skipped&quot;:false},{&quot;title&quot;:&quot;check live chat in Developer Docs&quot;,&quot;fullTitle&quot;:&quot;Functional tests check live chat in Developer Docs&quot;,&quot;timedOut&quot;:null,&quot;duration&quot;:15022,&quot;state&quot;:&quot;passed&quot;,&quot;speed&quot;:&quot;slow&quot;,&quot;pass&quot;:true,&quot;fail&quot;:false,&quot;pending&quot;:false,&quot;context&quot;:null,&quot;code&quot;:&quot;_mainPage.default.rightMenueClick();\n_mainPage.default.resourcesButtclick();\n_mainPage.default.devDocsButtclick();\ncy.scrollTo(&#x27;bottom&#x27;);\ncy.wait(6000);\n_devDocsPage.default.liveChatButtclick();\ncy.wait(5000);\n_devDocsPage.default.serchFieldLiveChatButtClick();\n_devDocsPage.default.serchFieldLiveChatFill(&#x27;sms&#x27;);\ncy.wait(1000);\n_devDocsPage.default.findEntryAndClick(&#x27;Sending Alphanumeric&#x27;);\n_devDocsPage.default.entryTitle.should(\&quot;have.text\&quot;, \&quot;Sending Alphanumeric SMS\&quot;);&quot;,&quot;err&quot;:{},&quot;uuid&quot;:&quot;8f106a25-f782-49b0-96a7-52a69ea0fe74&quot;,&quot;parentUUID&quot;:&quot;2e5b74e2-49e8-46ca-8dcd-a2303e1e4950&quot;,&quot;isHook&quot;:false,&quot;skipped&quot;:false},{&quot;title&quot;:&quot;check search field in the \&quot;Blog\&quot; page&quot;,&quot;fullTitle&quot;:&quot;Functional tests check search field in the \&quot;Blog\&quot; page&quot;,&quot;timedOut&quot;:null,&quot;duration&quot;:8110,&quot;state&quot;:&quot;passed&quot;,&quot;speed&quot;:&quot;medium&quot;,&quot;pass&quot;:true,&quot;fail&quot;:false,&quot;pending&quot;:false,&quot;context&quot;:null,&quot;code&quot;:&quot;_mainPage.default.rightMenueClick();\n_mainPage.default.resourcesButtclick();\n_mainPage.default.blogeButtClick();\n_blogPage.default.serchFieldFill(&#x27;Programmable fax{enter}&#x27;);\ncy.wait(6000);\ncy.contains(&#x27;Programmable fax - switch from Twilio to Telnyx&#x27;).click();\n_blogPage.default.entruTitle.should(&#x27;have.text&#x27;, &#x27;Programmable fax - switch from Twilio to Telnyx &#x27;);&quot;,&quot;err&quot;:{},&quot;uuid&quot;:&quot;fa3bff6c-d4fe-4bcd-8a30-3e98accd3217&quot;,&quot;parentUUID&quot;:&quot;2e5b74e2-49e8-46ca-8dcd-a2303e1e4950&quot;,&quot;isHook&quot;:false,&quot;skipped&quot;:false},{&quot;title&quot;:&quot;check the search field in the developer docs&quot;,&quot;fullTitle&quot;:&quot;Functional tests check the search field in the developer docs&quot;,&quot;timedOut&quot;:null,&quot;duration&quot;:5569,&quot;state&quot;:&quot;passed&quot;,&quot;speed&quot;:&quot;medium&quot;,&quot;pass&quot;:true,&quot;fail&quot;:false,&quot;pending&quot;:false,&quot;context&quot;:null,&quot;code&quot;:&quot;_mainPage.default.rightMenueClick();\n_mainPage.default.resourcesButtclick();\n_mainPage.default.devDocsButtclick();\n_devDocsPage.default.lefMenuClick();\n_devDocsPage.default.serchFieldLeftMenuFill(&#x27;api&#x27;);\ncy.contains(&#x27; Services in Europe&#x27;).click({\n  force: true\n});\n_devDocsPage.default.mainEntryTitle.should(&#x27;have.text&#x27;, &#x27;Voice API Services in Europe&#x27;);&quot;,&quot;err&quot;:{},&quot;uuid&quot;:&quot;781329f5-50b9-4b81-95e0-83bc9f1893c4&quot;,&quot;parentUUID&quot;:&quot;2e5b74e2-49e8-46ca-8dcd-a2303e1e4950&quot;,&quot;isHook&quot;:false,&quot;skipped&quot;:false},{&quot;title&quot;:&quot;Check Savings Calculator&quot;,&quot;fullTitle&quot;:&quot;Functional tests Check Savings Calculator&quot;,&quot;timedOut&quot;:null,&quot;duration&quot;:4081,&quot;state&quot;:&quot;passed&quot;,&quot;speed&quot;:&quot;fast&quot;,&quot;pass&quot;:true,&quot;fail&quot;:false,&quot;pending&quot;:false,&quot;context&quot;:null,&quot;code&quot;:&quot;_mainPage.default.rightMenueClick();\n_mainPage.default.resourcesButtclick();\n_mainPage.default.CalculatorButtClick();\ncy.wait(2000);\n_calculatorPage.default.messagingApiButtClick();\n_calculatorPage.default.voiceApiButtClick();\n_calculatorPage.default.continueButtClick();\n_calculatorPage.default.localNumberFieldFill(&#x27;{selectall}321&#x27;);\n_calculatorPage.default.tollFreeNumberFieldClick(&#x27;{selectall}123&#x27;);\n_calculatorPage.default.continueButtClick();\n_calculatorPage.default.totalSavingResult.should(&#x27;have.text&#x27;, &#x27;$12,940/ year&#x27;);&quot;,&quot;err&quot;:{},&quot;uuid&quot;:&quot;e79a47e0-2ca5-4964-ba1d-4841d732df90&quot;,&quot;parentUUID&quot;:&quot;2e5b74e2-49e8-46ca-8dcd-a2303e1e4950&quot;,&quot;isHook&quot;:false,&quot;skipped&quot;:false}],&quot;suites&quot;:[],&quot;passes&quot;:[&quot;8f106a25-f782-49b0-96a7-52a69ea0fe74&quot;,&quot;fa3bff6c-d4fe-4bcd-8a30-3e98accd3217&quot;,&quot;781329f5-50b9-4b81-95e0-83bc9f1893c4&quot;,&quot;e79a47e0-2ca5-4964-ba1d-4841d732df90&quot;],&quot;failures&quot;:[&quot;7b7e11a0-0a3d-4e40-816f-fd094e6e5026&quot;],&quot;pending&quot;:[],&quot;skipped&quot;:[],&quot;duration&quot;:44836,&quot;root&quot;:false,&quot;rootEmpty&quot;:false,&quot;_timeout&quot;:2000}],&quot;passes&quot;:[],&quot;failures&quot;:[],&quot;pending&quot;:[],&quot;skipped&quot;:[],&quot;duration&quot;:0,&quot;root&quot;:true,&quot;rootEmpty&quot;:true,&quot;_timeout&quot;:2000}],&quot;meta&quot;:{&quot;mocha&quot;:{&quot;version&quot;:&quot;7.0.1&quot;},&quot;mochawesome&quot;:{&quot;options&quot;:{&quot;quiet&quot;:false,&quot;reportFilename&quot;:&quot;mochawesome&quot;,&quot;saveHtml&quot;:false,&quot;saveJson&quot;:true,&quot;consoleReporter&quot;:&quot;spec&quot;,&quot;useInlineDiffs&quot;:false,&quot;code&quot;:true},&quot;version&quot;:&quot;7.1.3&quot;},&quot;marge&quot;:{&quot;options&quot;:{&quot;overwrite&quot;:false,&quot;html&quot;:false,&quot;json&quot;:true,&quot;reportDir&quot;:&quot;cypress/reports/html/.jsons&quot;},&quot;version&quot;:&quot;6.2.0&quot;}}}" data-config="{&quot;reportFilename&quot;:&quot;index.html&quot;,&quot;reportDir&quot;:&quot;/home/runner/work/cypress_autotest/cypress_autotest/cypress/reports/html&quot;,&quot;reportTitle&quot;:&quot;cypress_autotest&quot;,&quot;reportPageTitle&quot;:&quot;Mochawesome Report&quot;,&quot;inline&quot;:false,&quot;inlineAssets&quot;:false,&quot;cdn&quot;:false,&quot;charts&quot;:false,&quot;enableCharts&quot;:false,&quot;code&quot;:true,&quot;enableCode&quot;:true,&quot;autoOpen&quot;:false,&quot;overwrite&quot;:true,&quot;timestamp&quot;:false,&quot;ts&quot;:false,&quot;showPassed&quot;:true,&quot;showFailed&quot;:true,&quot;showPending&quot;:true,&quot;showSkipped&quot;:false,&quot;showHooks&quot;:&quot;failed&quot;,&quot;saveJson&quot;:false,&quot;saveHtml&quot;:true,&quot;dev&quot;:false,&quot;assetsDir&quot;:&quot;/home/runner/work/cypress_autotest/cypress_autotest/cypress/reports/html/assets&quot;,&quot;htmlFile&quot;:&quot;/home/runner/work/cypress_autotest/cypress_autotest/cypress/reports/html/index.html&quot;}"><div id="report"></div><script src="assets/app.js"></script></body></html>
